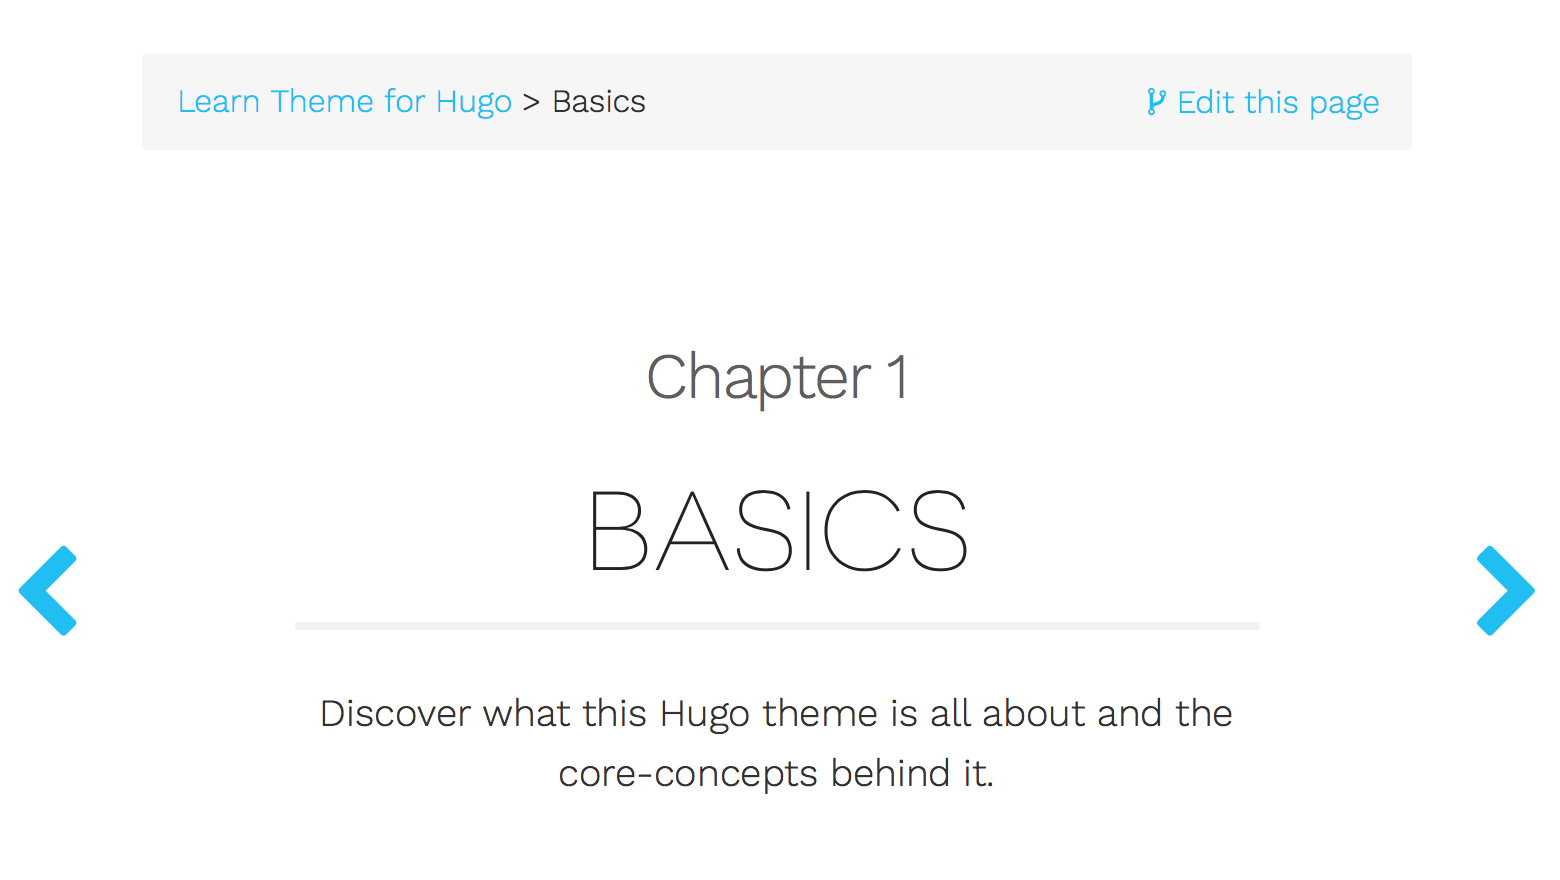
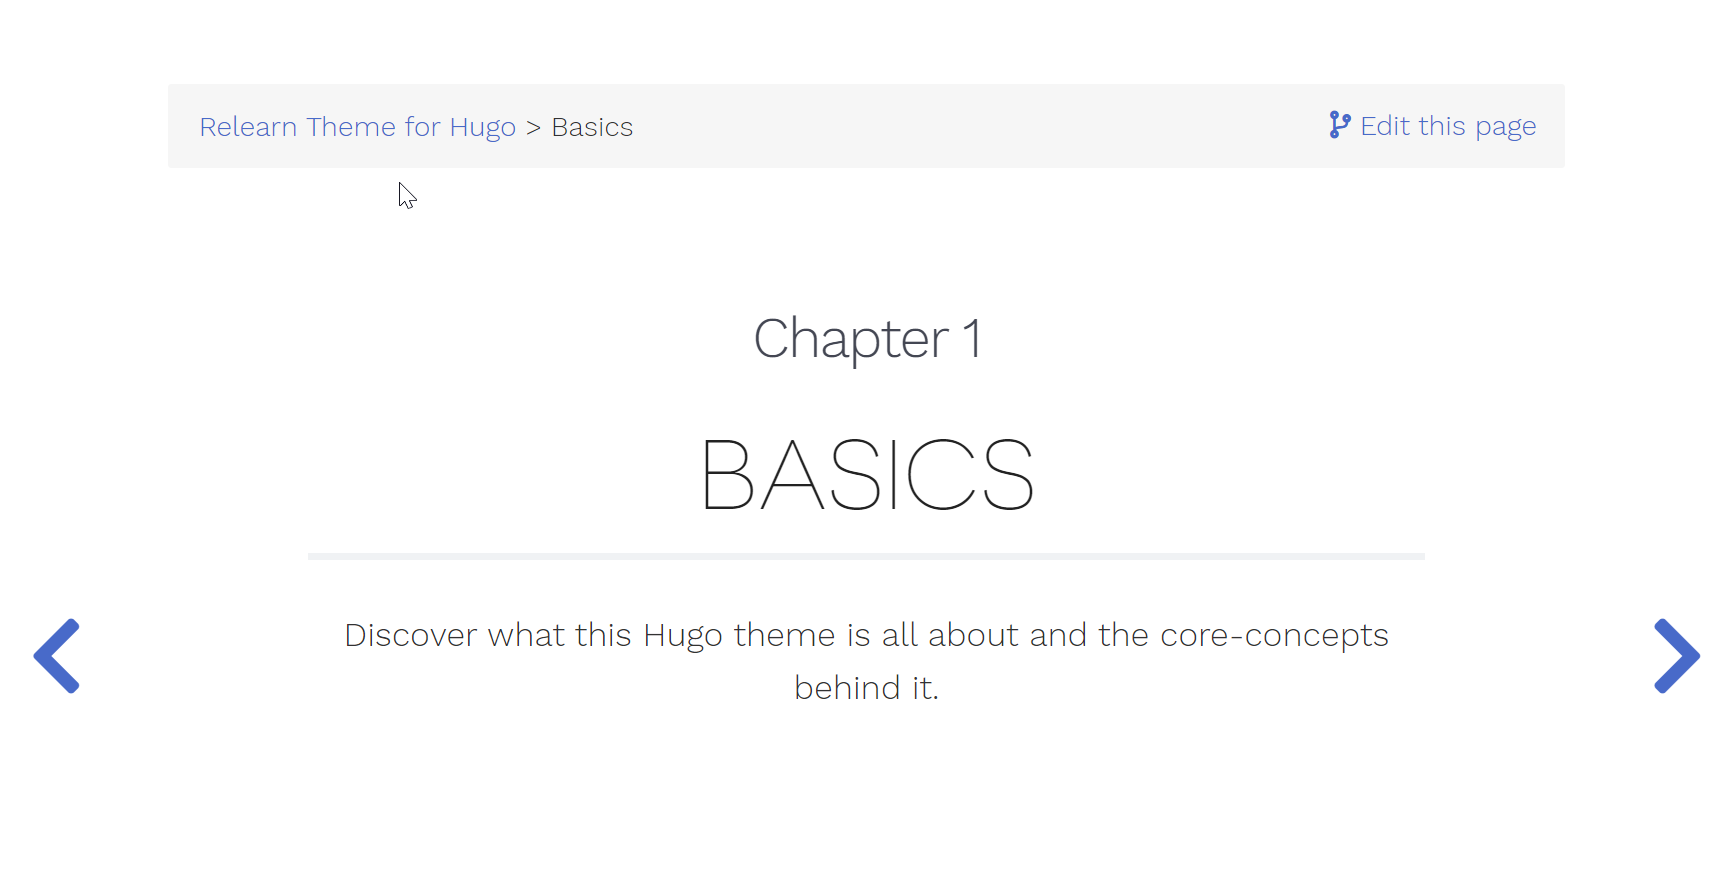
Reworking screenshots after rebranding

diff --git a/exampleSite/layouts/partials/logo.html b/exampleSite/layouts/partials/logo.html
@@ -1,5 +1,19 @@
-<a id="logo" href='{{ (cond (and (ne .Site.Params.landingPageURL nil) (.Site.IsMultiLingual)) .Site.Params.landingPageURL "/") }}'>
+<a id="logo"
+  style="
+    color: white;
+    font-family: 'Novacento Sans Wide', 'Helvetica', 'Tahoma', 'Geneva', 'Arial', sans-serif;
+    font-size: 30px;
+    font-weight: bold;
+    margin-top: -2px;
+  "
+  href='{{ (cond (and (ne .Site.Params.landingPageURL nil) (.Site.IsMultiLingual)) .Site.Params.landingPageURL "/") }}'>
   <svg
+  style="
+    height: 65px;
+    margin-bottom: -20px;
+    margin-top: -20px;
+    width: 65px;
+  "
   width="64.044029mm"
   height="64.044029mm"
   viewBox="0 0 64.044029 64.044029"

diff --git a/layouts/partials/logo.html b/layouts/partials/logo.html
@@ -1,5 +1,19 @@
-<a id="logo" href='{{ (cond (and (ne .Site.Params.landingPageURL nil) (.Site.IsMultiLingual)) .Site.Params.landingPageURL "/") }}'>
+<a id="logo"
+  style="
+    color: white;
+    font-family: 'Novacento Sans Wide', 'Helvetica', 'Tahoma', 'Geneva', 'Arial', sans-serif;
+    font-size: 30px;
+    font-weight: bold;
+    margin-top: -2px;
+  "
+  href='{{ (cond (and (ne .Site.Params.landingPageURL nil) (.Site.IsMultiLingual)) .Site.Params.landingPageURL "/") }}'>
   <svg
+  style="
+    height: 65px;
+    margin-bottom: -20px;
+    margin-top: -20px;
+    width: 65px;
+  "
   width="64.044029mm"
   height="64.044029mm"
   viewBox="0 0 64.044029 64.044029"

diff --git a/static/css/theme.css b/static/css/theme.css
@@ -77,15 +77,6 @@ b, strong, label, th {
     -moz-transition: all 0.5s ease;
     transition: all 0.5s ease;
 }
-#logo #relearn-logo{
-    height: 65px;
-    margin-bottom: -20px;
-    margin-top: -20px;
-    width: 65px;
-}
-#relearn-logo path {
-    fill: #fff !important;
-}
 #sidebar {
     font-weight: 300 !important;
 }

diff --git a/static/css/theme-relearn.css b/static/css/theme-relearn.css
@@ -130,11 +130,3 @@ a:hover {
 #shortcuts h3{
     color: var(--MENU-SECTIONS-LINK-HOVER-color) !important;
 }
-
-a#logo{
-    color: white;
-    font-family: "Novacento Sans Wide", "Helvetica", "Tahoma", "Geneva", "Arial", sans-serif;
-    font-size: 30px;
-    font-weight: bold;
-    margin-top: -2px;
-}

diff --git a/exampleSite/content/_index.en.md b/exampleSite/content/_index.en.md
@@ -6,7 +6,7 @@ title: "Relearn Theme for Hugo"
 
 [Hugo-theme-relearn](http://github.com/McShelby/hugo-theme-relearn) is a theme for [Hugo](https://gohugo.io/), a fast and modern static website engine written in Go. Where Hugo is often used for blogs, this multilingual-ready theme is **fully designed for documentation**.
 
-{{% notice tip %}}Relearn theme works with a _page tree structure_ to organize content : All contents are pages, which belong to other pages. [read more about this]({{%relref "cont/pages/_index.md"%}}) 
+{{% notice tip %}}Relearn theme works with a _page tree structure_ to organize content : All contents are pages, which belong to other pages. [read more about this]({{%relref "cont/pages/_index.md"%}})
 {{% /notice %}}
 
 ## Main features
@@ -20,11 +20,12 @@ title: "Relearn Theme for Hugo"
 * [List child pages]({{%relref "shortcodes/children/_index.md" %}})
 * [Mermaid diagram]({{%relref "shortcodes/mermaid.en.md" %}}) (flowchart, sequence, gantt)
 * [Customizable look and feel and themes variants]({{%relref "basics/style-customization/_index.md"%}})
-* [Buttons]({{%relref "shortcodes/button.en.md" %}}), [Tip/Note/Info/Warning boxes]({{%relref "shortcodes/notice.en.md" %}}), [Expand]({{%relref "shortcodes/expand.en.md" %}})
+* [Buttons]({{%relref "shortcodes/button.en.md" %}}), [Tip/Note/Info/Warning boxes]({{%relref "shortcodes/notice.en.md" %}}), [Expand]({{%relref "shortcodes/expand.en.md" %}}), [Tabs]({{%relref "shortcodes/tabs.en.md" %}})
 
 ![Screenshot](https://github.com/McShelby/hugo-theme-relearn/raw/main/images/screenshot.png?width=40pc&classes=shadow)
 
 ## Contribute to this documentation
+
 Feel free to update this content, just click the **Edit this page** link displayed on top right of each page, and pullrequest it
 
 {{% notice info %}}
@@ -32,6 +33,7 @@ Your modification will be deployed automatically when merged.
 {{% /notice %}}
 
 ## Documentation website
+
 This current documentation has been statically generated with Hugo with a simple command : `hugo -t hugo-theme-relearn` -- source code is [available here at GitHub](https://github.com/McShelby/hugo-theme-relearn)
 
 {{% notice note %}}

diff --git a/exampleSite/content/basics/style-customization/_index.en.md b/exampleSite/content/basics/style-customization/_index.en.md
@@ -43,13 +43,23 @@ If you need to change this default behavior, create a new file in `layouts/parti
 
 ## Change default colors {#theme-variant}
 
-**Hugo Relearn theme** let you choose between 3 native color scheme variants, but feel free to add one yourself!
+**Hugo Relearn theme** let you choose between some predefined color scheme variants, but feel free to add one yourself!
+
+### Standard variant
+
+```toml
+[params]
+  # Change default color scheme with a variant one. Can be empty, "red", "blue", "green".
+  themeVariant = ""
+```
+
+![Red variant](images/standard-variant.png?width=60pc)
 
 ### Red variant
 
 ```toml
 [params]
-  # Change default color scheme with a variant one. Can be "red", "blue", "green".
+  # Change default color scheme with a variant one. Can be empty, "red", "blue", "green".
   themeVariant = "red"
 ```
 
@@ -59,7 +69,7 @@ If you need to change this default behavior, create a new file in `layouts/parti
 
 ```toml
 [params]
-  # Change default color scheme with a variant one. Can be "red", "blue", "green".
+  # Change default color scheme with a variant one. Can be empty, "red", "blue", "green".
   themeVariant = "blue"
 ```
 
@@ -69,7 +79,7 @@ If you need to change this default behavior, create a new file in `layouts/parti
 
 ```toml
 [params]
-  # Change default color scheme with a variant one. Can be "red", "blue", "green".
+  # Change default color scheme with a variant one. Can be empty, "red", "blue", "green".
   themeVariant = "green"
 ```
 

diff --git a/README.md b/README.md
@@ -4,7 +4,7 @@ A theme for [Hugo](https://gohugo.io/).
 
 [![wercker status](https://app.wercker.com/status/062e9604da64b79944d87434cb63fa53/s/main "wercker status")](https://app.wercker.com/project/byKey/062e9604da64b79944d87434cb63fa53)
 
-![Overview](https://github.com/McShelby/hugo-theme-relearn/raw/main/images/tn.png)
+![Overview](https://github.com/McShelby/hugo-theme-relearn/raw/main/images/screenshot.png)
 
 ## Main features
 
@@ -18,7 +18,6 @@ A theme for [Hugo](https://gohugo.io/).
 - Mermaid diagram (flowchart, sequence, gantt)
 - Customizable look and feel and themes variants
 - Buttons, Tip/Note/Info/Warning boxes, Expand, Tabs
-- and many more...
 
 Visit the [documentation](https://relearn.netlify.app/) for a demo.
 

diff --git a/exampleSite/content/basics/configuration/_index.en.md b/exampleSite/content/basics/configuration/_index.en.md
@@ -109,4 +109,4 @@ landingPageName = "<i class='fas fa-home'></i> Home"
 
 The home button is going to looks like this:
 
-![Default Home Button](images/home_button_defaults.jpg?width=100%)
+![Default Home Button](images/home_button_defaults.png?width=100%)

diff --git a/exampleSite/content/cont/pages/_index.en.md b/exampleSite/content/cont/pages/_index.en.md
@@ -121,7 +121,7 @@ In the page frontmatter, add a `pre` param to insert any HTML code before the me
 
 ```toml
 +++
-title = "Github repo"
+title = "GitHub repo"
 pre = "<i class='fab fa-github'></i> "
 +++
 ```
